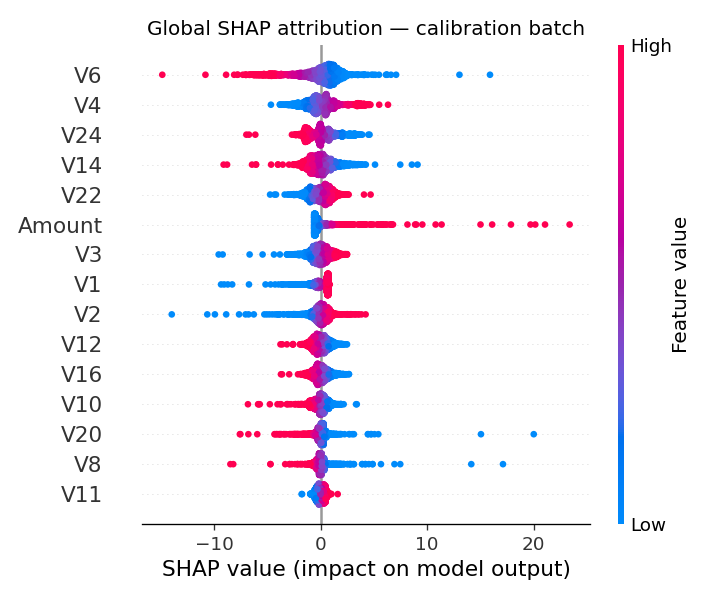
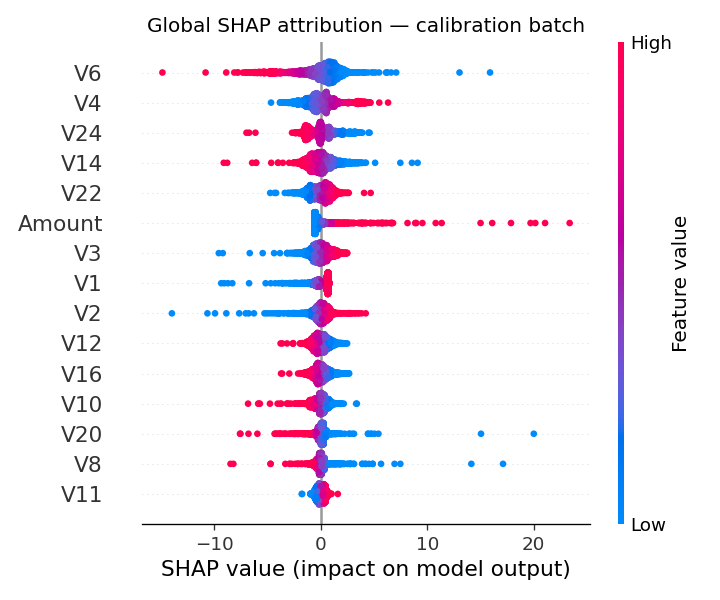
evidence: regenerate so the run manifest traces to a real commit
The committed evidence recorded source_commit 211bf755, which exists neither in
this repository nor on GitHub — it was generated from an unpushed local commit,
so nobody could tie the results back to code. Its data fingerprint also
described the Kaggle copy of the dataset rather than the OpenML copy this
repository fetches, so the run was not reproducible here either.

Regenerated at c8b2e56 against the OpenML dataset with a clean MLflow registry,
so a fresh clone reproduces fraud-detector:v1 exactly.

Every headline figure is unchanged: promoted candidate, threshold 0.98,
operating precision 0.2143 and recall 0.7500, default 1,205 false positives, all
three batch results, and the SHAP ranking. Only the losing XGBoost candidate
moved (the two dataset copies differ at float precision), which the model card
now reflects; the report and demo script already carried these values.

Also makes the interpreter assertion in the consistency test explain itself,
since it only holds for freshly generated evidence.

diff --git a/tests/test_evidence_consistency.py b/tests/test_evidence_consistency.py
@@ -118,11 +118,17 @@ def test_generated_evidence_is_internally_consistent():
         assert native["label_status"] == summary["label_status"]
         assert native["evidently"] == summary["evidently"]
 
-    # The manifest must honestly record the interpreter that produced this
-    # evidence. That the *pinned* runtime is 3.13.9 is asserted against the
-    # Dockerfile and both workflows in tests/test_reproducibility.py, so this
-    # does not have to fail on a contributor's differing patch release.
-    assert manifest["python_version"] == platform.python_version()
+    # This suite validates FRESHLY GENERATED evidence — CI runs it immediately
+    # after `make verify`. Run against committed evidence from another machine it
+    # fails here, which is the point: the manifest must describe the run that
+    # produced the files beside it, not some earlier run elsewhere. That the
+    # *pinned* runtime is 3.13.9 is asserted against the Dockerfile and both
+    # workflows in tests/test_reproducibility.py.
+    assert manifest["python_version"] == platform.python_version(), (
+        f"manifest records Python {manifest['python_version']} but this "
+        f"interpreter is {platform.python_version()}; regenerate the evidence "
+        "with `make verify` before running this check"
+    )
     for fingerprint in (
         validation["raw_data_fingerprint"],
         manifest["data"]["fingerprint_sha256"],

diff --git a/docs/MODEL_CARD.md b/docs/MODEL_CARD.md
@@ -9,12 +9,12 @@
 | Field | Value |
 | --- | --- |
 | Registered name | `fraud-detector` |
-| Version | `9` (`fraud-detector:v9`) |
+| Version | `1` (`fraud-detector:v1`) |
 | Algorithm | Logistic Regression (scikit-learn 1.7.2) |
-| MLflow run ID | `6d70936c8b7240188f549852a514c86a` |
-| Model URI | `models:/m-335609cc22ed428ebc4a07097f62ae81` |
+| MLflow run ID | `0bbf3589c2ea4592a482e2a6f7d1cca8` |
+| Model URI | `models:/m-2d5d9063ba3244e8bec0c0f37201e565` |
 | Selection reason | Highest model-validation PR-AUC |
-| Source commit | "211bf755211641b2d82ff0b8df1d6cfee1cfdb98" |
+| Source commit | `c8b2e564abf9c3cd88eec14b52394adfcca71a49` |
 | Owner | CY |
 | Card last updated | 2026-08-07 |
 
@@ -38,12 +38,12 @@ that score into a review queue.
 
 | Property | Value |
 | --- | --- |
-| Source | ULB Credit Card Fraud Detection, downloaded from Kaggle (`mlg-ulb/creditcardfraud`) |
+| Source | ULB Credit Card Fraud Detection, via the open OpenML mirror (dataset 1597) |
 | Rows | 284,807 |
 | Fraud cases | 492 (0.1727%) |
 | Features | `Time`, `V1`–`V28` (PCA-transformed), `Amount` |
 | Target | `Class` (1 = fraud) |
-| Data fingerprint | `76274b69…551a89` (SHA-256) |
+| Data fingerprint | `1700322b…313026` (SHA-256) |
 | Split | Time-based, no random shuffling |
 
 Splits: earliest slice trains; `model_valid` selects between candidates;
@@ -66,14 +66,14 @@ Selection metric: `model_validation.pr_auc`.
 
 | | Logistic Regression (**promoted**) | XGBoost |
 | --- | --- | --- |
-| PR-AUC | **0.8652** | 0.8313 |
-| ROC-AUC | 0.9765 | 0.9810 |
-| Recall | 0.9121 | 0.8352 |
-| Precision | 0.0707 | 0.7525 |
-| F1 | 0.1312 | 0.7917 |
-| FP | 1,091 | 25 |
-| FN | 8 | 15 |
-| Estimated cost | 1,891 | **1,525** |
+| PR-AUC | **0.8652** | 0.8345 |
+| ROC-AUC | 0.9765 | 0.9827 |
+| Recall | 0.9121 | 0.8462 |
+| Precision | 0.0707 | 0.7130 |
+| F1 | 0.1312 | 0.7739 |
+| FP | 1,091 | 31 |
+| FN | 8 | 14 |
+| Estimated cost | 1,891 | **1,431** |
 
 The two metrics disagree. PR-AUC is threshold-independent and appropriate for
 extreme imbalance, which justifies its use for selection. However, at the

diff --git a/docs/TECHNICAL_REPORT.md b/docs/TECHNICAL_REPORT.md
@@ -101,12 +101,12 @@ comes from one authoritative run, recorded in `reports/run_manifest.json`:
 
 | | |
 |---|---|
-| Dataset | `REAL — ULB Credit Card Fraud Detection, downloaded manually from Kaggle (mlg-ulb/creditcardfraud)` |
+| Dataset | `REAL — ULB creditcard via OpenML dataset 1597` |
 | Rows / frauds | 284,807 / 492 (0.1727%) |
[1 lines of base64/hex data omitted]
-| Source commit | `211bf75` |
-| Python | 3.13.14 |
-| Promoted model | `fraud-detector:v9` (MLflow run `6d70936c8b7240188f549852a514c86a`) |
[1 lines of base64/hex data omitted]
+| Source commit | `c8b2e56` |
+| Python | 3.13.9 |
+| Promoted model | `fraud-detector:v1` (MLflow run `0bbf3589c2ea4592a482e2a6f7d1cca8`) |
 
 The chronological split gives `train` 142,403 rows (269 frauds), `model_valid`
 28,480 (91), `calibration` 28,480 (24), and three production batches of ~28,481

diff --git a/reports/trigger_log.md b/reports/trigger_log.md
@@ -1,6 +1,6 @@
 # Retraining review decision log
 
-Promoted model: **fraud-detector:v9**  
+Promoted model: **fraud-detector:v1**  
 Calibration PR-AUC baseline: **0.6033**  
 Operating threshold: **0.98**
 
